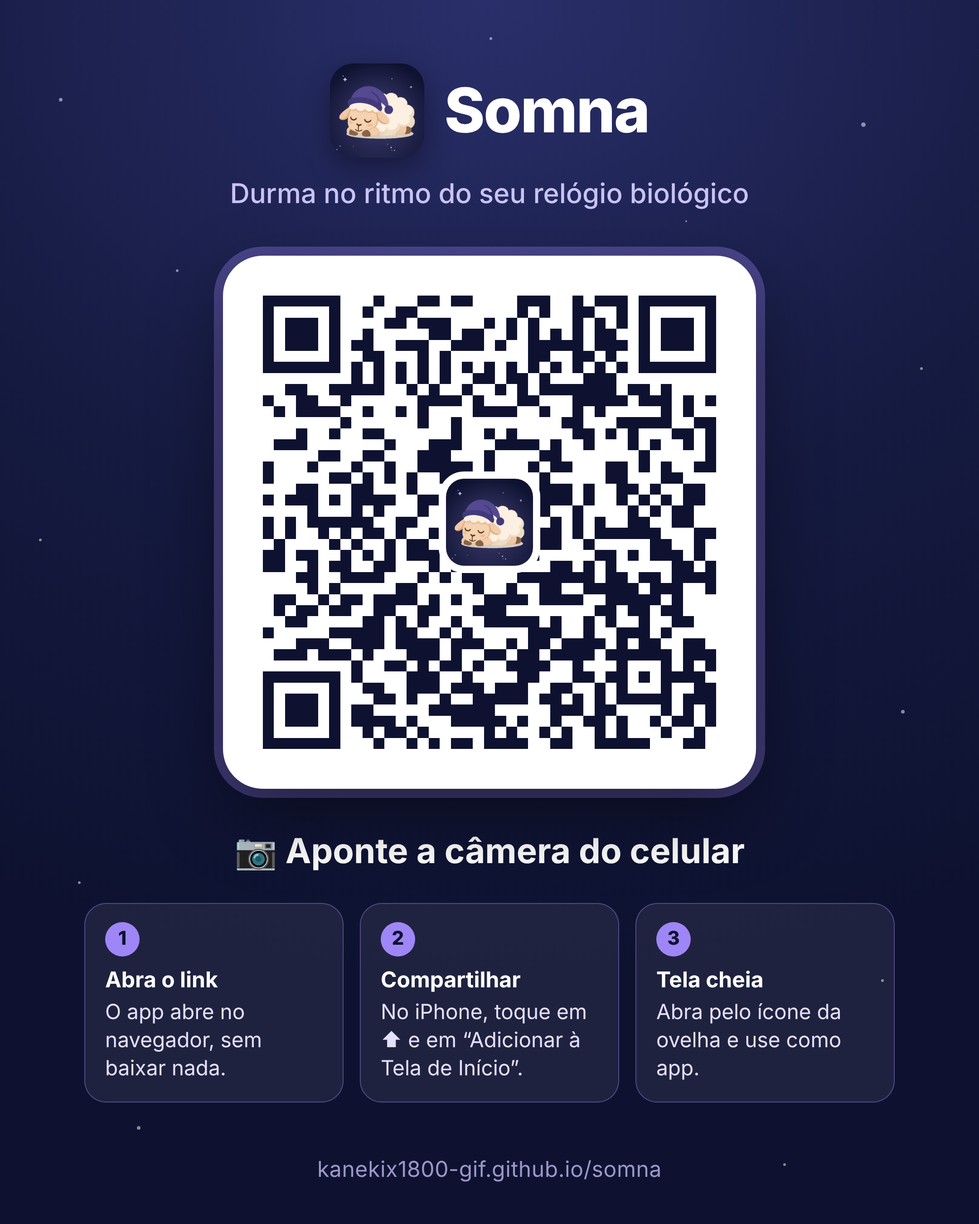
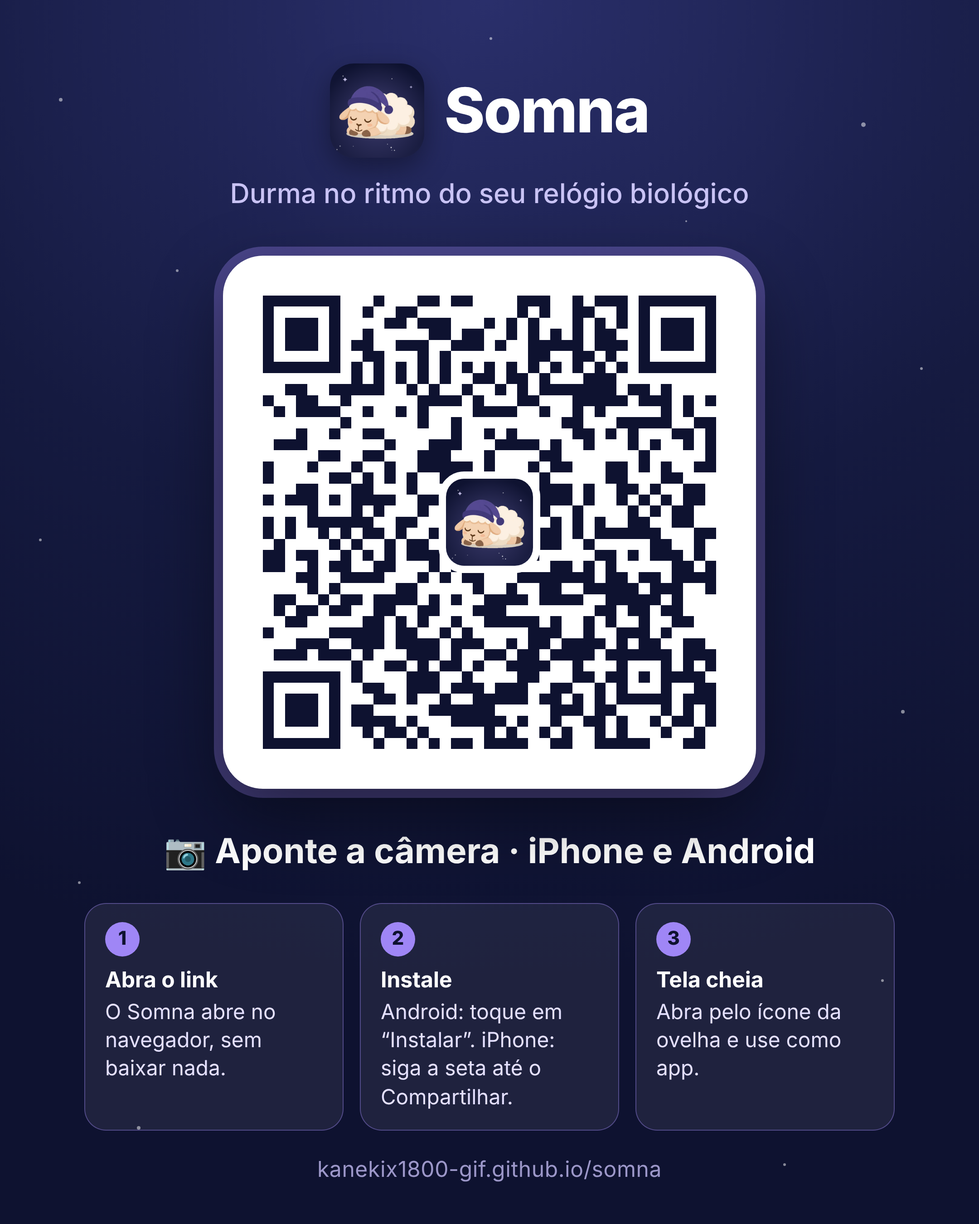
Convite para instalar o Somna: botão no Android e guia com seta no iPhone
- Android (Chrome/Samsung Internet): guarda o beforeinstallprompt e mostra
  "Instalar o Somna"; um toque abre a instalação do sistema
- Android sem esse evento: passo a passo pelo menu do navegador
- iPhone: cartão "Use o Somna em tela cheia" com os 2 passos e uma seta animada
  apontando para o Compartilhar; iPad e outros navegadores do iOS sem seta, no topo
- Não aparece no app já instalado nem no computador; "Agora não" vale para a sessão
- Cartaz do QR code atualizado para iPhone e Android
- Service worker com nova versão

Claude-Session: https://claude.ai/code/session_01E5v3dzAFrtkiHdqCwiL5pE

Changed region(s): [[0.3722, 0.7778, 0.5894, 0.9022], [0.1551, 0.6844, 0.8375, 0.7156], [0.1241, 0.8089, 0.2792, 0.84]]

diff --git a/index.html b/index.html
@@ -211,6 +211,162 @@
   else w.addEventListener('load', aoCarregar);
 })({"modoNativo":true,"cssPaliativo":"","versaoCasca":"web-1.0.0","sw":"sw.js","tentativas":40,"intervaloMs":250});</script>
     <style>html,body{background:#05081a;margin:0}</style>
+    <script>(function convidarParaInstalar() {
+  'use strict';
+  /* Convite para instalar o Somna na tela inicial (abre em tela cheia, sem a barra do navegador).
+     Android/Chrome: guarda o evento beforeinstallprompt e mostra o botão "Instalar o Somna" (1 toque).
+     iPhone/iPad: não existe instalação por código; mostra o passo a passo apontando para o Compartilhar.
+     Já instalado (display-mode standalone) ou no computador: não mostra nada. */
+  var w = window, d = document, nav = navigator;
+  var CHAVE = 'somna.instalar.dispensado';
+  var ua = nav.userAgent || '';
+  var ios = /iPhone|iPad|iPod/.test(ua) || (/Macintosh/.test(ua) && nav.maxTouchPoints > 1);
+  var ipad = /iPad/.test(ua) || (/Macintosh/.test(ua) && nav.maxTouchPoints > 1);
+  var android = /Android/.test(ua);
+  var iosOutro = ios && /CriOS|FxiOS|EdgiOS|OPiOS/.test(ua);
+  var evento = null, aberto = false, raiz = null;
+
+  function instalado() {
+    try {
+      if (w.matchMedia && (w.matchMedia('(display-mode: standalone)').matches || w.matchMedia('(display-mode: fullscreen)').matches)) return true;
+    } catch (e) {}
+    return nav.standalone === true;
+  }
+  function dispensado() {
+    try { return w.sessionStorage.getItem(CHAVE) === '1'; } catch (e) { return false; }
+  }
+  function dispensar() {
+    try { w.sessionStorage.setItem(CHAVE, '1'); } catch (e) {}
+    fechar();
+  }
+  if (instalado() || (!ios && !android)) return;
+
+  w.addEventListener('beforeinstallprompt', function (e) {
+    e.preventDefault();
+    evento = e;
+    if (aberto) montar();
+  });
+  w.addEventListener('appinstalled', function () {
+    evento = null;
+    try { w.sessionStorage.setItem(CHAVE, '1'); } catch (e) {}
+    fechar();
+  });
+
+  var css =
+    '#somna-instalar{position:fixed;inset:0;z-index:2147483000;display:flex;flex-direction:column;justify-content:flex-end;pointer-events:none;font-family:Inter,-apple-system,BlinkMacSystemFont,"SF Pro Text","Segoe UI",Roboto,sans-serif;-webkit-font-smoothing:antialiased}' +
+    '#somna-instalar.topo{justify-content:flex-start}' +
+    '#somna-instalar .fundo{position:absolute;inset:0;background:rgba(5,8,26,.55);opacity:0;transition:opacity .25s ease;pointer-events:auto}' +
+    '#somna-instalar.visivel .fundo{opacity:1}' +
+    '#somna-instalar .folha{position:relative;margin:0 12px calc(12px + env(safe-area-inset-bottom));padding:18px 18px 16px;border-radius:24px;background:linear-gradient(165deg,#262B63 0%,#171C45 100%);border:1px solid rgba(159,134,246,.35);box-shadow:0 18px 50px rgba(0,0,0,.5);color:#fff;pointer-events:auto;transform:translateY(24px);opacity:0;transition:transform .32s cubic-bezier(.2,.8,.2,1),opacity .25s ease}' +
+    '#somna-instalar.topo .folha{margin:calc(12px + env(safe-area-inset-top)) 12px 0}' +
+    '#somna-instalar.visivel .folha{transform:none;opacity:1}' +
+    '#somna-instalar .cabeca{display:flex;align-items:center;gap:14px;padding-right:30px}' +
+    '#somna-instalar .icone{width:54px;height:54px;border-radius:14px;flex-shrink:0;box-shadow:0 6px 16px rgba(0,0,0,.35)}' +
+    '#somna-instalar h2{margin:0;font-size:18px;font-weight:700;letter-spacing:-.2px;line-height:1.25}' +
+    '#somna-instalar p{margin:3px 0 0;font-size:14px;line-height:1.4;color:#C9C3F5}' +
+    '#somna-instalar .x{position:absolute;top:10px;right:10px;width:34px;height:34px;border-radius:17px;border:0;background:rgba(255,255,255,.08);color:#C9C3F5;font-size:20px;line-height:34px;text-align:center;cursor:pointer;padding:0}' +
+    '#somna-instalar .botao{display:flex;align-items:center;justify-content:center;gap:8px;width:100%;height:50px;margin-top:16px;border:0;border-radius:999px;background:linear-gradient(90deg,#A48DF8,#D9A2E8);color:#141838;font-size:16px;font-weight:700;cursor:pointer;font-family:inherit}' +
+    '#somna-instalar .depois{display:block;width:100%;margin-top:6px;height:40px;border:0;background:none;color:#B3ADE0;font-size:14px;font-weight:600;cursor:pointer;font-family:inherit}' +
+    '#somna-instalar .passos{display:flex;flex-direction:column;gap:8px;margin-top:16px}' +
+    '#somna-instalar .passo{display:flex;align-items:center;gap:12px;padding:11px 12px;border-radius:16px;background:rgba(255,255,255,.06);border:1px solid rgba(159,134,246,.22);font-size:15px;line-height:1.35;color:#ECE9FF}' +
+    '#somna-instalar .num{display:grid;place-items:center;width:28px;height:28px;border-radius:14px;flex-shrink:0;background:#9F86F6;color:#141838;font-size:14px;font-weight:800}' +
+    '#somna-instalar .sim{display:inline-grid;place-items:center;width:30px;height:30px;border-radius:9px;background:rgba(255,255,255,.12);vertical-align:middle;margin:0 2px;color:#8AB4FF}' +
+    '#somna-instalar .sim svg{width:18px;height:18px}' +
+    '#somna-instalar .seta{display:flex;justify-content:center;margin:-2px 0 calc(2px + env(safe-area-inset-bottom));pointer-events:none;color:#C9B8FF;filter:drop-shadow(0 4px 10px rgba(0,0,0,.5))}' +
+    '#somna-instalar .seta svg{width:44px;height:44px;animation:somna-instalar-pulo 1.1s ease-in-out infinite}' +
+    '#somna-instalar.com-seta .folha{margin-bottom:6px}' +
+    '@keyframes somna-instalar-pulo{0%,100%{transform:translateY(0)}50%{transform:translateY(8px)}}' +
+    '@media (prefers-reduced-motion: reduce){#somna-instalar .seta svg{animation:none}#somna-instalar .folha,#somna-instalar .fundo{transition:none}}';
+
+  var SVG_COMPARTILHAR = '<svg viewBox="0 0 24 24" fill="none" stroke="currentColor" stroke-width="2" stroke-linecap="round" stroke-linejoin="round" aria-hidden="true"><path d="M12 3v12"/><path d="m7.5 7.5 4.5-4.5 4.5 4.5"/><path d="M8 10H6.5A1.5 1.5 0 0 0 5 11.5v8A1.5 1.5 0 0 0 6.5 21h11a1.5 1.5 0 0 0 1.5-1.5v-8a1.5 1.5 0 0 0-1.5-1.5H16"/></svg>';
+  var SVG_MAIS = '<svg viewBox="0 0 24 24" fill="none" stroke="currentColor" stroke-width="2" stroke-linecap="round" stroke-linejoin="round" aria-hidden="true"><rect x="4" y="4" width="16" height="16" rx="4"/><path d="M12 8.5v7M8.5 12h7"/></svg>';
+  var SVG_MENU = '<svg viewBox="0 0 24 24" fill="currentColor" aria-hidden="true"><circle cx="12" cy="5" r="2"/><circle cx="12" cy="12" r="2"/><circle cx="12" cy="19" r="2"/></svg>';
+  var SVG_SETA = '<svg viewBox="0 0 24 24" fill="none" stroke="currentColor" stroke-width="2.6" stroke-linecap="round" stroke-linejoin="round" aria-hidden="true"><path d="M12 4v15"/><path d="m5.5 12.5 6.5 6.5 6.5-6.5"/></svg>';
+  var ICONE = 'icones/icone-192.png';
+
+  function conteudo() {
+    var cabeca = function (titulo, texto) {
+      return '<button type="button" class="x" data-acao="dispensar" aria-label="Fechar">×</button>' +
+        '<div class="cabeca"><img class="icone" src="' + ICONE + '" alt=""><div><h2 id="somna-instalar-titulo">' + titulo + '</h2><p>' + texto + '</p></div></div>';
+    };
+    if (evento) {
+      return { classe: '', html: cabeca('Instale o Somna', 'Abre em tela cheia, como um app, direto da sua tela inicial.') +
+        '<button type="button" class="botao" data-acao="instalar">Instalar o Somna</button>' +
+        '<button type="button" class="depois" data-acao="dispensar">Agora não</button>' };
+    }
+    if (ios) {
+      var noTopo = ipad || iosOutro;
+      return { classe: noTopo ? 'topo' : 'com-seta', seta: !noTopo, html: cabeca('Use o Somna em tela cheia', 'Adicione à Tela de Início em 2 toques. Sem baixar nada.') +
+        '<div class="passos">' +
+        '<div class="passo"><span class="num">1</span><span>Toque em <span class="sim">' + SVG_COMPARTILHAR + '</span> <b>Compartilhar</b>' + (iosOutro ? ' no menu do navegador' : ipad ? ' no topo' : ' aqui embaixo') + '</span></div>' +
+        '<div class="passo"><span class="num">2</span><span>Escolha <span class="sim">' + SVG_MAIS + '</span> <b>Adicionar à Tela de Início</b></span></div>' +
+        '</div>' +
+        '<button type="button" class="depois" data-acao="dispensar">Agora não</button>' };
+    }
+    return { classe: 'topo', html: cabeca('Instale o Somna', 'Abre em tela cheia, como um app, direto da sua tela inicial.') +
+      '<div class="passos">' +
+      '<div class="passo"><span class="num">1</span><span>Toque no menu <span class="sim">' + SVG_MENU + '</span> do navegador</span></div>' +
+      '<div class="passo"><span class="num">2</span><span>Escolha <b>Instalar app</b> ou <b>Adicionar à tela inicial</b></span></div>' +
+      '</div>' +
+      '<button type="button" class="depois" data-acao="dispensar">Agora não</button>' };
+  }
+
+  function montar() {
+    if (instalado() || dispensado()) return;
+    if (!d.getElementById('somna-instalar-css')) {
+      var s = d.createElement('style');
+      s.id = 'somna-instalar-css';
+      s.textContent = css;
+      d.head.appendChild(s);
+    }
+    var c = conteudo();
+    if (!raiz) {
+      raiz = d.createElement('div');
+      raiz.id = 'somna-instalar';
+      raiz.addEventListener('click', function (e) {
+        var alvo = e.target.closest ? e.target.closest('[data-acao]') : null;
+        if (e.target.classList && e.target.classList.contains('fundo')) return dispensar();
+        if (!alvo) return;
+        if (alvo.getAttribute('data-acao') === 'dispensar') dispensar();
+        if (alvo.getAttribute('data-acao') === 'instalar' && evento) {
+          var ev = evento;
+          evento = null;
+          ev.prompt();
+          (ev.userChoice || Promise.resolve({})).then(function (r) {
+            if (r && r.outcome === 'accepted') { try { w.sessionStorage.setItem(CHAVE, '1'); } catch (e2) {} fechar(); }
+            else montar();
+          });
+        }
+      });
+      d.addEventListener('keydown', function (e) { if (aberto && e.key === 'Escape') dispensar(); });
+      d.body.appendChild(raiz);
+    }
+    raiz.className = c.classe;
+    raiz.innerHTML = '<div class="fundo"></div><div class="folha" role="dialog" aria-modal="true" aria-labelledby="somna-instalar-titulo">' + c.html + '</div>' +
+      (c.seta ? '<div class="seta">' + SVG_SETA + '</div>' : '');
+    aberto = true;
+    w.requestAnimationFrame(function () { w.requestAnimationFrame(function () { raiz && raiz.classList.add('visivel'); }); });
+  }
+  function fechar() {
+    aberto = false;
+    if (!raiz) return;
+    var r = raiz;
+    raiz = null;
+    r.classList.remove('visivel');
+    w.setTimeout(function () { if (r.parentNode) r.parentNode.removeChild(r); }, 320);
+  }
+
+  /* Espera a abertura (ovelha) terminar. No Android, dá um tempo para o Chrome liberar o botão de instalar. */
+  function iniciar() {
+    w.setTimeout(function () {
+      if (instalado() || dispensado()) return;
+      if (ios || evento) return montar();
+      w.setTimeout(montar, 2500);
+    }, 2600);
+  }
+  if (d.readyState === 'loading') d.addEventListener('DOMContentLoaded', iniciar);
+  else iniciar();
+})();</script>
     <script type="module">var e=Object.create,t=Object.defineProperty,n=Object.getOwnPropertyDescriptor,r=Object.getOwnPropertyNames,i=Object.getPrototypeOf,a=Object.prototype.hasOwnProperty,o=(e,t)=>()=>(t||(e((t={exports:{}}).exports,t,t.exports),e=null),t.exports),s=(e,i,o,s)=>{if(i&&typeof i==`object`||typeof i==`function`)for(var c=r(i),l=0,u=c.length,d;l<u;l++)d=c[l],!a.call(e,d)&&d!==o&&t(e,d,{get:(e=>i[e]).bind(null,d),enumerable:!(s=n(i,d))||s.enumerable});return e},c=(n,r,o)=>(o=n==null?{}:e(i(n)),s(r||!n||!n.__esModule||!a.call(n,`default`)?t(o,`default`,{value:n,enumerable:!0}):o,n));(function(){let e=document.createElement(`link`).relList;if(e&&e.supports&&e.supports(`modulepreload`))return;for(let e of document.querySelectorAll(`link[rel="modulepreload"]`))n(e);new MutationObserver(e=>{for(let t of e)if(t.type===`childList`)for(let e of t.addedNodes)e.tagName===`LINK`&&e.rel===`modulepreload`&&n(e)}).observe(document,{childList:!0,subtree:!0});function t(e){let t={};return e.integrity&&(t.integrity=e.integrity),e.referrerPolicy&&(t.referrerPolicy=e.referrerPolicy),t.credentials=e.crossOrigin===`use-credentials`?`include`:e.crossOrigin===`anonymous`?`omit`:`same-origin`,t}function n(e){if(e.ep)return;e.ep=!0;let n=t(e);fetch(e.href,n)}})();var l=o((e=>{var t=Symbol.for(`react.transitional.element`),n=Symbol.for(`react.portal`),r=Symbol.for(`react.fragment`),i=Symbol.for(`react.strict_mode`),a=Symbol.for(`react.profiler`),o=Symbol.for(`react.consumer`),s=Symbol.for(`react.context`),c=Symbol.for(`react.forward_ref`),l=Symbol.for(`react.suspense`),u=Symbol.for(`react.memo`),d=Symbol.for(`react.lazy`),f=Symbol.for(`react.activity`),p=Symbol.for(`react.view_transition`),m=Symbol.iterator;function h(e){return typeof e!=`object`||!e?null:(e=m&&e[m]||e[`@@iterator`],typeof e==`function`?e:null)}var g={isMounted:function(){return!1},enqueueForceUpdate:function(){},enqueueReplaceState:function(){},enqueueSetState:function(){}},_=Object.assign,v={};function y(e,t,n){this.props=e,this.context=t,this.refs=v,this.updater=n||g}y.prototype.isReactComponent={},y.prototype.setState=function(e,t){if(typeof e!=`object`&&typeof e!=`function`&&e!=null)throw Error(`takes an object of state variables to update or a function which returns an object of state variables.`);this.updater.enqueueSetState(this,e,t,`setState`)},y.prototype.forceUpdate=function(e){this.updater.enqueueForceUpdate(this,e,`forceUpdate`)};function b(){}b.prototype=y.prototype;function x(e,t,n){this.props=e,this.context=t,this.refs=v,this.updater=n||g}var S=x.prototype=new b;S.constructor=x,_(S,y.prototype),S.isPureReactComponent=!0;var C=Array.isArray;function w(){}var T={H:null,A:null,T:null,S:null},ee=Object.prototype.hasOwnProperty;function E(e,n,r){var i=r.ref;return{$$typeof:t,type:e,key:n,ref:i===void 0?null:i,props:r}}function te(e,t){return E(e.type,t,e.props)}function D(e){return typeof e==`object`&&!!e&&e.$$typeof===t}function O(e){var t={"=":`=0`,":":`=2`};return`$`+e.replace(/[=:]/g,function(e){return t[e]})}var ne=/\/+/g;function k(e,t){return typeof e==`object`&&e&&e.key!=null?O(``+e.key):t.toString(36)}function A(e){switch(e.status){case`fulfilled`:return e.value;case`rejected`:throw e.reason;default:switch(typeof e.status==`string`?e.then(w,w):(e.status=`pending`,e.then(function(t){e.status===`pending`&&(e.status=`fulfilled`,e.value=t)},function(t){e.status===`pending`&&(e.status=`rejected`,e.reason=t)})),e.status){case`fulfilled`:return e.value;case`rejected`:throw e.reason}}throw e}function j(e,r,i,a,o){var s=typeof e;(s===`undefined`||s===`boolean`)&&(e=null);var c=!1;if(e===null)c=!0;else switch(s){case`bigint`:case`string`:case`number`:c=!0;break;case`object`:switch(e.$$typeof){case t:case n:c=!0;break;case d:return c=e._init,j(c(e._payload),r,i,a,o)}}if(c)return o=o(e),c=a===``?`.`+k(e,0):a,C(o)?(i=``,c!=null&&(i=c.replace(ne,`$&/`)+`/`),j(o,r,i,``,function(e){return e})):o!=null&&(D(o)&&(o=te(o,i+(o.key==null||e&&e.key===o.key?``:(``+o.key).replace(ne,`$&/`)+`/`)+c)),r.push(o)),1;c=0;var l=a===``?`.`:a+`:`;if(C(e))for(var u=0;u<e.length;u++)a=e[u],s=l+k(a,u),c+=j(a,r,i,s,o);else if(u=h(e),typeof u==`function`)for(e=u.call(e),u=0;!(a=e.next()).done;)a=a.value,s=l+k(a,u++),c+=j(a,r,i,s,o);else if(s===`object`){if(typeof e.then==`function`)return j(A(e),r,i,a,o);throw r=String(e),Error(`Objects are not valid as a React child (found: `+(r===`[object Object]`?`object with keys {`+Object.keys(e).join(`, `)+`}`:r)+`). If you meant to render a collection of children, use an array instead.`)}return c}function re(e,t,n){if(e==null)return e;var r=[],i=0;return j(e,r,``,``,function(e){return t.call(n,e,i++)}),r}function ie(e){if(e._status===-1){var t=e._result,n=t();n.then(function(t){(e._status===0||e._status===-1)&&(e._status=1,e._result=t,n.status===void 0&&(n.status=`fulfilled`,n.value=t))},function(t){(e._status===0||e._status===-1)&&(e._status=2,e._result=t,n.status===void 0&&(n.status=`rejected`,n.reason=t))}),e._status===-1&&(e._status=0,e._result=n)}if(e._status===1)return e._result.default;throw e._result}var ae=typeof reportError==`function`?reportError:function(e){if(typeof window==`object`&&typeof window.ErrorEvent==`function`){var t=new window.ErrorEvent(`error`,{bubbles:!0,cancelable:!0,message:typeof e==`object`&&e&&typeof e.message==`string`?String(e.message):String(e),error:e});if(!window.dispatchEvent(t))return}else if(typeof process==`object`&&typeof process.emit==`function`){process.emit(`uncaughtException`,e);return}console.error(e)};function oe(e){var t=T.T,n={};n.types=t===null?null:t.types,T.T=n;try{var r=e(),i=T.S;i!==null&&i(n,r),typeof r==`object`&&r&&typeof r.then==`function`&&r.then(w,ae)}catch(e){ae(e)}finally{t!==null&&n.types!==null&&(t.types=n.types),T.T=t}}function se(e){var t=T.T;if(t!==null){var n=t.types;n===null?t.types=[e]:n.indexOf(e)===-1&&n.push(e)}else oe(se.bind(null,e))}var ce={map:re,forEach:function(e,t,n){re(e,function(){t.apply(this,arguments)},n)},count:function(e){var t=0;return re(e,function(){t++}),t},toArray:function(e){return re(e,function(e){return e})||[]},only:function(e){if(!D(e))throw Error(`React.Children.only expected to receive a single React element child.`);return e}};e.Activity=f,e.Children=ce,e.Component=y,e.Fragment=r,e.Profiler=a,e.PureComponent=x,e.StrictMode=i,e.Suspense=l,e.ViewTransition=p,e.__CLIENT_INTERNALS_DO_NOT_USE_OR_WARN_USERS_THEY_CANNOT_UPGRADE=T,e.__COMPILER_RUNTIME={__proto__:null,c:function(e){return T.H.useMemoCache(e)}},e.addTransitionType=se,e.cache=function(e){return function(){return e.apply(null,arguments)}},e.cacheSignal=function(){return null},e.cloneElement=function(e,t,n){if(e==null)throw Error(`The argument must be a React element, but you passed `+e+`.`);var r=_({},e.props),i=e.key;if(t!=null)for(a in t.key!==void 0&&(i=``+t.key),t)!ee.call(t,a)||a===`key`||a===`__self`||a===`__source`||a===`ref`&&t.ref===void 0||(r[a]=t[a]);var a=arguments.length-2;if(a===1)r.children=n;else if(1<a){for(var o=Array(a),s=0;s<a;s++)o[s]=arguments[s+2];r.children=o}return E(e.type,i,r)},e.createContext=function(e){return e={$$typeof:s,_currentValue:e,_currentValue2:e,_threadCount:0,Provider:null,Consumer:null},e.Provider=e,e.Consumer={$$typeof:o,_context:e},e},e.createElement=function(e,t,n){var r,i={},a=null;if(t!=null)for(r in t.key!==void 0&&(a=``+t.key),t)ee.call(t,r)&&r!==`key`&&r!==`__self`&&r!==`__source`&&(i[r]=t[r]);var o=arguments.length-2;if(o===1)i.children=n;else if(1<o){for(var s=Array(o),c=0;c<o;c++)s[c]=arguments[c+2];i.children=s}if(e&&e.defaultProps)for(r in o=e.defaultProps,o)i[r]===void 0&&(i[r]=o[r]);return E(e,a,i)},e.createRef=function(){return{current:null}},e.forwardRef=function(e){return{$$typeof:c,render:e}},e.isValidElement=D,e.lazy=function(e){return{$$typeof:d,_payload:{_status:-1,_result:e},_init:ie}},e.memo=function(e,t){return{$$typeof:u,type:e,compare:t===void 0?null:t}},e.startTransition=oe,e.unstable_useCacheRefresh=function(){return T.H.useCacheRefresh()},e.use=function(e){return T.H.use(e)},e.useActionState=function(e,t,n){return T.H.useActionState(e,t,n)},e.useCallback=function(e,t){return T.H.useCallback(e,t)},e.useContext=function(e){return T.H.useContext(e)},e.useDebugValue=function(){},e.useDeferredValue=function(e,t){return T.H.useDeferredValue(e,t)},e.useEffect=function(e,t){return T.H.useEffect(e,t)},e.useEffectEvent=function(e){return T.H.useEffectEvent(e)},e.useId=function(){return T.H.useId()},e.useImperativeHandle=function(e,t,n){return T.H.useImperativeHandle(e,t,n)},e.useInsertionEffect=function(e,t){return T.H.useInsertionEffect(e,t)},e.useLayoutEffect=function(e,t){return T.H.useLayoutEffect(e,t)},e.useMemo=function(e,t){return T.H.useMemo(e,t)},e.useOptimistic=function(e,t){return T.H.useOptimistic(e,t)},e.useReducer=function(e,t,n){return T.H.useReducer(e,t,n)},e.useRef=function(e){return T.H.useRef(e)},e.useState=function(e){return T.H.useState(e)},e.useSyncExternalStore=function(e,t,n){return T.H.useSyncExternalStore(e,t,n)},e.useTransition=function(){return T.H.useTransition()},e.version=`19.3.1`})),u=o(((e,t)=>{t.exports=l()})),d=o((e=>{function t(e,t){var n=e.length;e.push(t);a:for(;0<n;){var r=n-1>>>1,a=e[r];if(0<i(a,t))e[r]=t,e[n]=a,n=r;else break a}}function n(e){return e.length===0?null:e[0]}function r(e){if(e.length===0)return null;var t=e[0],n=e.pop();if(n!==t){e[0]=n;a:for(var r=0,a=e.length,o=a>>>1;r<o;){var s=2*(r+1)-1,c=e[s],l=s+1,u=e[l];if(0>i(c,n))l<a&&0>i(u,c)?(e[r]=u,e[l]=n,r=l):(e[r]=c,e[s]=n,r=s);else if(l<a&&0>i(u,n))e[r]=u,e[l]=n,r=l;else break a}}return t}function i(e,t){var n=e.sortIndex-t.sortIndex;return n===0?e.id-t.id:n}if(e.unstable_now=void 0,typeof performance==`object`&&typeof performance.now==`function`){var a=performance;e.unstable_now=function(){return a.now()}}else{var o=Date,s=o.now();e.unstable_now=function(){return o.now()-s}}var c=[],l=[],u=1,d=null,f=3,p=!1,m=!1,h=!1,g=!1,_=typeof setTimeout==`function`?setTimeout:null,v=typeof clearTimeout==`function`?clearTimeout:null,y=typeof setImmediate<`u`?setImmediate:null;function b(e){for(var i=n(l);i!==null;){if(i.callback===null)r(l);else if(i.startTime<=e)r(l),i.sortIndex=i.expirationTime,t(c,i);else break;i=n(l)}}function x(e){if(h=!1,b(e),!m){if(n(c)!==null)m=!0,S||(S=!0,te());else{var t=n(l);t!==null&&ne(x,t.startTime-e)}}}var S=!1,C=-1,w=5,T=-1;function ee(){return g?!0:!(e.unstable_now()-T<w)}function E(){if(g=!1,S){var t=e.unstable_now();T=t;var i=!0;try{a:{m=!1,h&&(h=!1,v(C),C=-1),p=!0;var a=f;try{b:{for(b(t),d=n(c);d!==null&&!(d.expirationTime>t&&ee());){var o=d.callback;if(typeof o==`function`){d.callback=null,f=d.priorityLevel;var s=o(d.expirationTime<=t);if(t=e.unstable_now(),typeof s==`function`){d.callback=s,b(t),i=!0;break b}d===n(c)&&r(c),b(t)}else r(c);d=n(c)}if(d!==null)i=!0;else{var u=n(l);u!==null&&ne(x,u.startTime-t),i=!1}}break a}finally{d=null,f=a,p=!1}i=void 0}}finally{i?te():S=!1}}}var te;if(typeof y==`function`)te=function(){y(E)};else if(typeof MessageChannel<`u`){var D=new MessageChannel,O=D.port2;D.port1.onmessage=E,te=function(){O.postMessage(null)}}else te=function(){_(E,0)};function ne(t,n){C=_(function(){t(e.unstable_now())},n)}e.unstable_IdlePriority=5,e.unstable_ImmediatePriority=1,e.unstable_LowPriority=4,e.unstable_NormalPriority=3,e.unstable_Profiling=null,e.unstable_UserBlockingPriority=2,e.unstable_cancelCallback=function(e){e.callback=null},e.unstable_forceFrameRate=function(e){0>e||125<e?console.error(`forceFrameRate takes a positive int between 0 and 125, forcing frame rates higher than 125 fps is not supported`):w=0<e?Math.floor(1e3/e):5},e.unstable_getCurrentPriorityLevel=function(){return f},e.unstable_next=function(e){switch(f){case 1:case 2:case 3:var t=3;break;default:t=f}var n=f;f=t;try{return e()}finally{f=n}},e.unstable_requestPaint=function(){g=!0},e.unstable_runWithPriority=function(e,t){switch(e){case 1:case 2:case 3:case 4:case 5:break;default:e=3}var n=f;f=e;try{return t()}finally{f=n}},e.unstable_scheduleCallback=function(r,i,a){var o=e.unstable_now();switch(typeof a==`object`&&a?(a=a.delay,a=typeof a==`number`&&0<a?o+a:o):a=o,r){case 1:var s=-1;break;case 2:s=250;break;case 5:s=1073741823;break;case 4:s=1e4;break;default:s=5e3}return s=a+s,r={id:u++,callback:i,priorityLevel:r,startTime:a,expirationTime:s,sortIndex:-1},a>o?(r.sortIndex=a,t(l,r),n(c)===null&&r===n(l)&&(h?(v(C),C=-1):h=!0,ne(x,a-o))):(r.sortIndex=s,t(c,r),m||p||(m=!0,S||(S=!0,te()))),r},e.unstable_shouldYield=ee,e.unstable_wrapCallback=function(e){var t=f;return function(){var n=f;f=t;try{return e.apply(this,arguments)}finally{f=n}}}})),f=o(((e,t)=>{t.exports=d()})),p=o((e=>{var t=u();function n(e){var t=`https://react.dev/errors/`+e;if(1<arguments.length){t+=`?args[]=`+encodeURIComponent(arguments[1]);for(var n=2;n<arguments.length;n++)t+=`&args[]=`+encodeURIComponent(arguments[n])}return`Minified React error #`+e+`; visit `+t+` for the full message or use the non-minified dev environment for full errors and additional helpful warnings.`}function r(){}var i={d:{f:r,r:function(){throw Error(n(522))},D:r,C:r,L:r,m:r,X:r,S:r,M:r},p:0,findDOMNode:null},a=Symbol.for(`react.portal`),o=Symbol.for(`react.recoverable`),s=Symbol.for(`react.optimistic_key`);function c(e,t,n){var r=3<arguments.length&&arguments[3]!==void 0?arguments[3]:null;return{$$typeof:a,key:r==null?null:r===s?s:``+r,children:e,containerInfo:t,implementation:n}}var l=t.__CLIENT_INTERNALS_DO_NOT_USE_OR_WARN_USERS_THEY_CANNOT_UPGRADE;function d(e,t){if(e===`font`)return``;if(typeof t==`string`)return t===`use-credentials`?t:``}e.__DOM_INTERNALS_DO_NOT_USE_OR_WARN_USERS_THEY_CANNOT_UPGRADE=i,e.browser=function(e){return{$$typeof:o,_reason:e}},e.createPortal=function(e,t){var r=2<arguments.length&&arguments[2]!==void 0?arguments[2]:null;if(!t||t.nodeType!==1&&t.nodeType!==9&&t.nodeType!==11)throw Error(n(299));return c(e,t,null,r)},e.flushSync=function(e){var t=l.T,n=i.p;try{if(l.T=null,i.p=2,e)return e()}finally{l.T=t,i.p=n,i.d.f()}},e.preconnect=function(e,t){typeof e==`string`&&(t?(t=t.crossOrigin,t=typeof t==`string`?t===`use-credentials`?t:``:void 0):t=null,i.d.C(e,t))},e.prefetchDNS=function(e){typeof e==`string`&&i.d.D(e)},e.preinit=function(e,t){if(typeof e==`string`&&t&&typeof t.as==`string`){var n=t.as,r=d(n,t.crossOrigin),a=typeof t.integrity==`string`?t.integrity:void 0,o=typeof t.fetchPriority==`string`?t.fetchPriority:void 0;n===`style`?i.d.S(e,typeof t.precedence==`string`?t.precedence:void 0,{crossOrigin:r,integrity:a,fetchPriority:o}):n===`script`&&i.d.X(e,{crossOrigin:r,integrity:a,fetchPriority:o,nonce:typeof t.nonce==`string`?t.nonce:void 0})}},e.preinitModule=function(e,t){if(typeof e==`string`){if(typeof t==`object`&&t){if(t.as==null||t.as===`script`){var n=d(t.as,t.crossOrigin);i.d.M(e,{crossOrigin:n,integrity:typeof t.integrity==`string`?t.integrity:void 0,nonce:typeof t.nonce==`string`?t.nonce:void 0,fetchPriority:typeof t.fetchPriority==`string`?t.fetchPriority:void 0})}}else t??i.d.M(e)}},e.preload=function(e,t){if(typeof e==`string`&&typeof t==`object`&&t&&typeof t.as==`string`){var n=t.as,r=d(n,t.crossOrigin);i.d.L(e,n,{crossOrigin:r,integrity:typeof t.integrity==`string`?t.integrity:void 0,nonce:typeof t.nonce==`string`?t.nonce:void 0,type:typeof t.type==`string`?t.type:void 0,fetchPriority:typeof t.fetchPriority==`string`?t.fetchPriority:void 0,referrerPolicy:typeof t.referrerPolicy==`string`?t.referrerPolicy:void 0,imageSrcSet:typeof t.imageSrcSet==`string`?t.imageSrcSet:void 0,imageSizes:typeof t.imageSizes==`string`?t.imageSizes:void 0,media:typeof t.media==`string`?t.media:void 0})}},e.preloadModule=function(e,t){if(typeof e==`string`){if(t){var n=d(t.as,t.crossOrigin);i.d.m(e,{as:typeof t.as==`string`&&t.as!==`script`?t.as:void 0,crossOrigin:n,integrity:typeof t.integrity==`string`?t.integrity:void 0,nonce:typeof t.nonce==`string`?t.nonce:void 0,fetchPriority:typeof t.fetchPriority==`string`?t.fetchPriority:void 0})}else i.d.m(e)}},e.requestFormReset=function(e){i.d.r(e)},e.unstable_batchedUpdates=function(e,t){return e(t)},e.useFormState=function(e,t,n){return l.H.useFormState(e,t,n)},e.useFormStatus=function(){return l.H.useHostTransitionStatus()},e.version=`19.3.1`})),m=o(((e,t)=>{function n(){if(typeof __REACT_DEVTOOLS_GLOBAL_HOOK__<`u`&&typeof __REACT_DEVTOOLS_GLOBAL_HOOK__.checkDCE==`function`)try{__REACT_DEVTOOLS_GLOBAL_HOOK__.checkDCE(n)}catch(e){console.error(e)}}n(),t.exports=p()})),h=o((e=>{var t=f(),n=u(),r=m();function i(e){var t=`https://react.dev/errors/`+e;if(1<arguments.length){t+=`?args[]=`+encodeURIComponent(arguments[1]);for(var n=2;n<arguments.length;n++)t+=`&args[]=`+encodeURIComponent(arguments[n])}return`Minified React error #`+e+`; visit `+t+` for the full message or use the non-minified dev environment for full errors and additional helpful warnings.`}function a(e){return!(!e||e.nodeType!==1&&e.nodeType!==9&&e.nodeType!==11)}function o(e){for(var t=e,n=t;n&&!n.alternate;)t=n,t.flags&4098&&(e=t.return),n=t.return;for(;t.return;)t=t.return;return t.tag===3?e:null}function s(e){if(e.tag===13){var t=e.memoizedState;if(t===null&&(e=e.alternate,e!==null&&(t=e.memoizedState)),t!==null)return t.dehydrated}return null}function c(e){if(e.tag===31){var t=e.memoizedState;if(t===null&&(e=e.alternate,e!==null&&(t=e.memoizedState)),t!==null)return t.dehydrated}return null}function l(e){if(o(e)!==e)throw Error(i(188))}function d(e){var t=e.alternate;if(!t){if(t=o(e),t===null)throw Error(i(188));return t===e?e:null}for(var n=e,r=t;;){var a=n.return;if(a===null)break;var s=a.alternate;if(s===null){if(r=a.return,r!==null){n=r;continue}break}if(a.child===s.child){for(s=a.child;s;){if(s===n)return l(a),e;if(s===r)return l(a),t;s=s.sibling}throw Error(i(188))}if(n.return!==r.return)n=a,r=s;else{for(var c=!1,u=a.child;u;){if(u===n){c=!0,n=a,r=s;break}if(u===r){c=!0,r=a,n=s;break}u=u.sibling}if(!c){for(u=s.child;u;){if(u===n){c=!0,n=s,r=a;break}if(u===r){c=!0,r=s,n=a;break}u=u.sibling}if(!c)throw Error(i(189))}}if(n.alternate!==r)throw Error(i(190))}if(n.tag!==3)throw Error(i(188));return n.stateNode.current===n?e:t}function p(e){var t=e.tag;if(t===5||t===26||t===27||t===6)return e;for(e=e.child;e!==null;){if(t=p(e),t!==null)return t;e=e.sibling}return null}function h(e,t,n,r,i,a){for(;e!==null;){if((e.tag===5||e.tag===27||e.tag===6)&&n(e,r,i,a)||(e.tag!==22||e.memoizedState===null)&&(t||e.tag!==5&&e.tag!==27)&&h(e.child,t,n,r,i,a))return!0;e=e.sibling}return!1}function g(e){for(e=e.return;e!==null;){if(e.tag===3||e.tag===5||e.tag===27)return e;e=e.return}return null}function _(e){var t=!1;for(e=e.return;e!==null&&(e.tag===4&&(t=!0),e.tag!==3&&e.tag!==5&&e.tag!==27);)e=e.return;return t}function v(e){var t=[null,null],n=g(e);return n===null||y(t,e,n.child,{foundSelf:!1}),t}function y(e,t,n,r){for(;n!==null;){if(n===t)r.foundSelf=!0;else if(n.tag===5||n.tag===27||n.tag===6){if(r.foundSelf)return e[1]=n,!0;e[0]=n}else if((n.tag!==22||n.memoizedState===null)&&y(e,t,n.child,r))return!0;n=n.sibling}return!1}function b(e){switch(e.tag){case 5:case 27:case 6:return e.stateNode;case 3:return e.stateNode.containerInfo;default:throw Error(i(559))}}var x=null,S=null;function C(e,t,n){return e===n||e===t&&(x=e,!0)}function w(e,t,n){return e===n?(S=e,!1):e===t&&(S!==null&&(x=e),!0)}function T(e){if(e===null)return null;do e=e===null?null:e.return;while(e&&e.tag!==5&&e.tag!==27&&e.tag!==3);return e||null}function ee(e,t,n){for(var r=0,i=e;i;i=n(i))r++;i=0;for(var a=t;a;a=n(a))i++;for(;0<r-i;)e=n(e),r--;for(;0<i-r;)t=n(t),i--;for(;r--;){if(e===t||t!==null&&e===t.alternate)return e;e=n(e),t=n(t)}return null}var E=Object.assign,te=Symbol.for(`react.element`),D=Symbol.for(`react.transitional.element`),O=Symbol.for(`react.portal`),ne=Symbol.for(`react.fragment`),k=Symbol.for(`react.strict_mode`),A=Symbol.for(`react.profiler`),j=Symbol.for(`react.consumer`),re=Symbol.for(`react.context`),ie=Symbol.for(`react.forward_ref`),ae=Symbol.for(`react.suspense`),oe=Symbol.for(`react.suspense_list`),se=Symbol.for(`react.memo`),ce=Symbol.for(`react.lazy`),le=Symbol.for(`react.activity`),ue=Symbol.for(`react.legacy_hidden`),de=Symbol.for(`react.memo_cache_sentinel`),fe=Symbol.for(`react.view_transition`),pe=Symbol.for(`react.recoverable`),me=Symbol.iterator;function he(e){return typeof e!=`object`||!e?null:(e=me&&e[me]||e[`@@iterator`],typeof e==`function`?e:null)}var ge=Symbol.for(`react.client.reference`);function _e(e){if(e==null)return null;if(typeof e==`function`)return e.$$typeof===ge?null:e.displayName||e.name||null;if(typeof e==`string`)return e;switch(e){case ne:return`Fragment`;case A:return`Profiler`;case k:return`StrictMode`;case ae:return`Suspense`;case oe:return`SuspenseList`;case le:return`Activity`;case fe:return`ViewTransition`}if(typeof e==`object`)switch(e.$$typeof){case O:return`Portal`;case re:return e.displayName||`Context`;case j:return(e._context.displayName||`Context`)+`.Consumer`;case ie:var t=e.render;return e=e.displayName,e||=(e=t.displayName||t.name||``,e===``?`ForwardRef`:`ForwardRef(`+e+`)`),e;case se:return t=e.displayName||null,t===null?_e(e.type)||`Memo`:t;case ce:t=e._payload,e=e._init;try{return _e(e(t))}catch{}}return null}var ve=Array.isArray,M=n.__CLIENT_INTERNALS_DO_NOT_USE_OR_WARN_USERS_THEY_CANNOT_UPGRADE,N=r.__DOM_INTERNALS_DO_NOT_USE_OR_WARN_USERS_THEY_CANNOT_UPGRADE,ye={pending:!1,data:null,method:null,action:null},be=[],xe=-1;function Se(e){return{current:e}}function Ce(e){0>xe||(e.current=be[xe],be[xe]=null,xe--)}function we(e,t){xe++,be[xe]=e.current,e.current=t}var Te=Se(null),Ee=Se(null),De=Se(null),Oe=Se(null);function ke(e,t){switch(we(De,t),we(Ee,e),we(Te,null),t.nodeType){case 9:case 11:e=(e=t.documentElement)&&(e=e.namespaceURI)?up(e):0;break;default:if(e=t.tagName,t=t.namespaceURI)t=up(t),e=dp(t,e);else switch(e){case`svg`:e=1;break;case`math`:e=2;break;default:e=0}}Ce(Te),we(Te,e)}function Ae(){Ce(Te),Ce(Ee),Ce(De)}function je(e){var t=e.memoizedState;t!==null&&(sh._currentValue=t.memoizedState,we(Oe,e)),t=Te.current;var n=dp(t,e.type);t!==n&&(we(Ee,e),we(Te,n))}function Me(e){Ee.current===e&&(Ce(Te),Ce(Ee)),Oe.current===e&&(Ce(Oe),sh._currentValue=ye)}var Ne,Pe;function Fe(e){if(Ne===void 0)try{throw Error()}catch(e){var t=e.stack.trim().match(/\n( *(at )?)/);Ne=t&&t[1]||``,Pe=-1<e.stack.indexOf(`
     at`)?` (<anonymous>)`:-1<e.stack.indexOf(`@`)?`@unknown:0:0`:``}return`
 `+Ne+e+Pe}var Ie=!1;function Le(e,t){if(!e||Ie)return``;Ie=!0;var n=Error.prepareStackTrace;Error.prepareStackTrace=void 0;try{var r={DetermineComponentFrameRoot:function(){try{if(t){var n=function(){throw Error()};if(Object.defineProperty(n.prototype,"props",{set:function(){throw Error()}}),typeof Reflect==`object`&&Reflect.construct){try{Reflect.construct(n,[])}catch(e){var r=e}Reflect.construct(e,[],n)}else{try{n.call()}catch(e){r=e}n=!1;try{var i=Object.getOwnPropertyDescriptor(e.prototype,`props`);Object.defineProperty(e.prototype,"props",{configurable:!0,set:function(){throw Error()}}),n=!0,new e}finally{n&&(i===void 0?delete e.prototype.props:Object.defineProperty(e.prototype,"props",i))}}}else{try{throw Error()}catch(e){r=e}(n=e())&&typeof n.catch==`function`&&n.catch(function(){})}}catch(e){if(e&&r&&typeof e.stack==`string`)return[e.stack,r.stack]}return[null,null]}};r.DetermineComponentFrameRoot.displayName=`DetermineComponentFrameRoot`;var i=Object.getOwnPropertyDescriptor(r.DetermineComponentFrameRoot,`name`);i&&i.configurable&&Object.defineProperty(r.DetermineComponentFrameRoot,"name",{value:`DetermineComponentFrameRoot`});var a=r.DetermineComponentFrameRoot(),o=a[0],s=a[1];if(o&&s){var c=o.split(`

diff --git a/sw.js b/sw.js
@@ -1,5 +1,5 @@
 // Somna: service worker da versão web para celular (EXPO.md §8).
-// GERADO por scripts/web-celular.mjs — não edite. Versão ec82bd30amz3 (hash do build publicado).
+// GERADO por scripts/web-celular.mjs — não edite. Versão ec82bd30amz4 (hash do build publicado).
 (function servicoWorker(cfg) {
   'use strict';
   var CACHE = cfg.prefixo + cfg.versao;
@@ -186,4 +186,4 @@
       });
     });
   }
-})({"versao":"ec82bd30amz3","prefixo":"somna-web-","precache":["./","manifest.webmanifest","icones/favicon-32.png","icones/icone-192.png","icones/apple-touch-icon.png"],"estaticos":["manifest.webmanifest","icones/icone-192.png","icones/icone-512.png","icones/icone-maskable-512.png","icones/apple-touch-icon.png","icones/favicon-32.png","previa.png"],"prazoRedeMs":4000});
+})({"versao":"ec82bd30amz4","prefixo":"somna-web-","precache":["./","manifest.webmanifest","icones/favicon-32.png","icones/icone-192.png","icones/apple-touch-icon.png"],"estaticos":["manifest.webmanifest","icones/icone-192.png","icones/icone-512.png","icones/icone-maskable-512.png","icones/apple-touch-icon.png","icones/favicon-32.png","previa.png"],"prazoRedeMs":4000});
